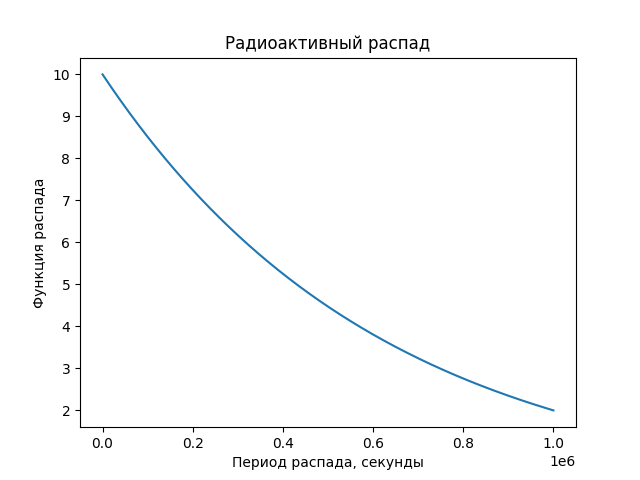
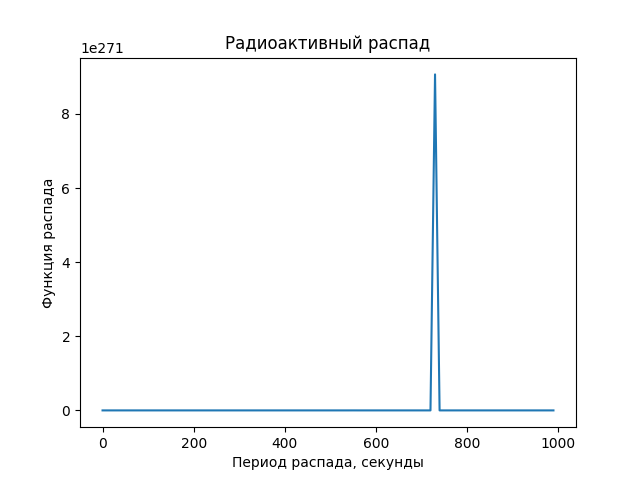
uhiuhloiu

diff --git a/task_1.py b/task_1.py
@@ -4,23 +4,23 @@ import matplotlib.pyplot as plt
 
 # пределы изменения переменной величины
 # в данном случае время
-t = np.arange(0, 10**6, 10)
+T = np.arange(0, 60, 1)
 
 # запись диф уравнения в виде функции
-def radio_function(m, t):
-    dmdt = - k * m
+def radio_function(n, t):
+    dmdt = k * n
     return dmdt
 
 # определение начальных условий и параметров 
-m_0 = 1000
-k = 1.61 * 10**(-6) # постоянная распада для висмута 210
+N = 1
+k = 1/15 # постоянная распада для висмута 210
 
 # решение уравнения функцией odeint
-m_t = odeint(radio_function, m_0, t)
+m_t = odeint(radio_function, N, T)
 
 # построение решения в виде графика функции
-plt.plot(t, m_t[:,0])
-plt.xlabel('Период распада, секунды')
-plt.ylabel('Функция распада')
-plt.title('Радиоактивный распад')
-plt.savefig('fig_1.png')
+plt.plot(T, m_t[:,0])
+plt.xlabel('Время, минуты')
+plt.ylabel('')
+plt.title('Рост популяции бактерий')
+plt.savefig('task_1.png')

diff --git a/task_3.py b/task_3.py
@@ -1,0 +1,22 @@
+import numpy as np
+from scipy.integrate import odeint
+import matplotlib.pyplot as plt
+
+T = np.arange(0, 200, 1)
+
+def radio_function(m, a, k, v):
+    dmdt = a + k*v*v/m
+    return dmdt
+
+A = 10
+v0 = 10
+M = 10
+g = - 0.5
+
+m_t = odeint(radio_function, M, A, g, v0)
+
+plt.plot(T, m_t[:,0])
+plt.xlabel('Время, года')
+plt.ylabel('')
+plt.title('Инвестировал в говно')
+plt.savefig('task_3.png')

diff --git a/z_task_1.py b/z_task_1.py
@@ -1,0 +1,22 @@
+import numpy as np
+from scipy.integrate import odeint
+import matplotlib.pyplot as plt
+
+T = np.arange(0, 200, 1)
+
+def radio_function(m, a, k, v):
+    dmdt = a + k*v*v/m
+    return dmdt
+
+A = 10
+v0 = 10
+M = 10
+g = - 0.5
+
+m_t = odeint(radio_function, M, A, g, v0)
+
+plt.plot(T, m_t[:,0])
+plt.xlabel('Время, года')
+plt.ylabel('')
+plt.title('Инвестировал в говно')
+plt.savefig('task_3.png')

diff --git a/task_2.py b/task_2.py
@@ -1,0 +1,20 @@
+import numpy as np
+from scipy.integrate import odeint
+import matplotlib.pyplot as plt
+
+T = np.arange(0, 20, 0.01)
+
+def radio_function(q, t):
+    dmdt = k * q * t
+    return dmdt
+ 
+Q = 1000
+k = - 0.08
+
+m_t = odeint(radio_function, Q, T)
+
+plt.plot(T, m_t[:,0])
+plt.xlabel('Время, года')
+plt.ylabel('')
+plt.title('Инвестировал в говно')
+plt.savefig('task_2.png')
